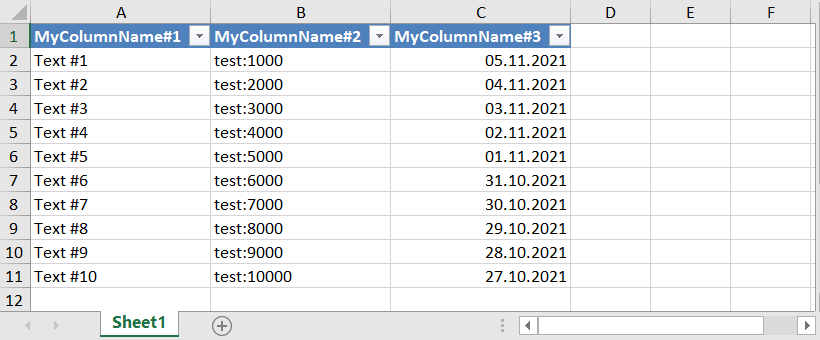
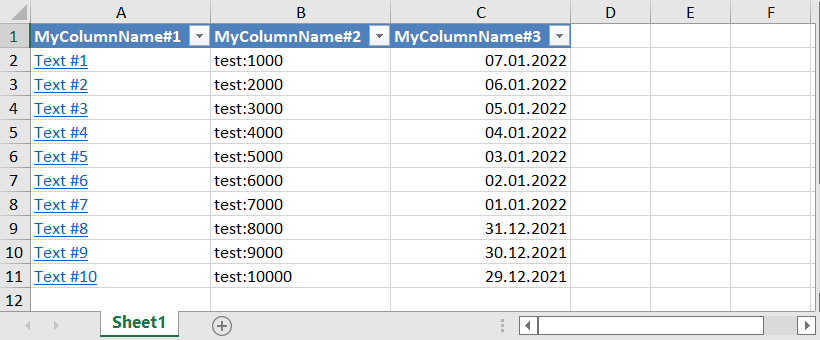
2.0.6

diff --git a/ArrayToExcel/ArrayToExcel.cs b/ArrayToExcel/ArrayToExcel.cs
@@ -95,9 +95,8 @@ namespace ArrayToExcel
             // fonts
             stylesPart.Stylesheet.Fonts = new Fonts();
             stylesPart.Stylesheet.Fonts.AppendChild(new Font());
-            var font1 = stylesPart.Stylesheet.Fonts.AppendChild(new Font());
-            font1.Append(new Bold());
-            font1.Append(new Color() { Rgb = HexBinaryValue.FromString("FFFFFFFF") });
+            stylesPart.Stylesheet.Fonts.AppendChild(new Font(new Bold(), new Color() { Rgb = HexBinaryValue.FromString("FFFFFFFF") }));
+            stylesPart.Stylesheet.Fonts.AppendChild(new Font(new Underline(), new Color() { Theme = 10U }));
             stylesPart.Stylesheet.Fonts.Count = (uint)stylesPart.Stylesheet.Fonts.ChildElements.Count;
 
             // fills
@@ -137,6 +136,8 @@ namespace ArrayToExcel
             stylesPart.Stylesheet.CellFormats.AppendChild(new CellFormat { FormatId = 0, FontId = 1, BorderId = 0, FillId = 2, ApplyFill = true }).AppendChild(new Alignment { Horizontal = HorizontalAlignmentValues.Left, Vertical = VerticalAlignmentValues.Center });
             // datetime style
             stylesPart.Stylesheet.CellFormats.AppendChild(new CellFormat { ApplyNumberFormat = true, NumberFormatId = 14, FormatId = 0, FontId = 0, BorderId = 0, FillId = 0, ApplyFill = true });
+            // hyperlink style
+            stylesPart.Stylesheet.CellFormats.AppendChild(new CellFormat { FormatId = 0, FontId = 2 });
             stylesPart.Stylesheet.CellFormats.Count = (uint)stylesPart.Stylesheet.CellFormats.ChildElements.Count;
 
             stylesPart.Stylesheet.Save();
@@ -170,13 +171,27 @@ namespace ArrayToExcel
         static Cell GetCell(string? reference, object? value)
         {
             var dataType = GetCellType(value);
-            return new Cell
+
+            var cell = new Cell
             {
                 CellReference = reference,
                 CellValue = GetCellValue(value),
                 DataType = dataType,
                 StyleIndex = dataType == CellValues.Date ? 2 : 0u,
             };
+
+            if (value is Hyperlink hyperlink)
+            {
+                cell.CellFormula = new CellFormula(hyperlink.ToString());
+                cell.StyleIndex = 3;
+            } 
+            else if (value is Uri uri)
+            {
+                cell.CellFormula = new CellFormula(new Hyperlink(uri).ToString());
+                cell.StyleIndex = 3;
+            }
+
+            return cell;
         }
 
         static CellValue GetCellValue(object? value)

diff --git a/ArrayToExcel/Hyperlink.cs b/ArrayToExcel/Hyperlink.cs
@@ -1,0 +1,36 @@
+using System;
+
+namespace ArrayToExcel
+{
+    public class Hyperlink
+    {
+        public Hyperlink(Uri link, string? text = null)
+            : this(link.ToString(), text ?? link.OriginalString) { }
+
+        public Hyperlink(string link, string? text = null)
+        {
+            _format = new Lazy<string>(() => Format(link, text));
+
+            Link = link;
+            Text = text;
+        }
+
+        private readonly Lazy<string> _format;
+
+        public string Link { get; }
+        public string? Text { get; }
+
+        public override string ToString() => _format.Value;
+
+
+        private static string Format(string link, string? text)
+        {
+            return string.Format(string.IsNullOrWhiteSpace(text) || text == link
+                ? "HYPERLINK(\"{0}\")"
+                : "HYPERLINK(\"{0}\",\"{1}\")",
+                Fix(link), Fix(text));
+        }
+        private static string? Fix(string? val) => val?.Replace("\"", "\"\"");
+
+    }
+}

diff --git a/Examples/Example.ConsoleApp/Program.cs b/Examples/Example.ConsoleApp/Program.cs
@@ -66,7 +66,7 @@ namespace ConsoleApp
         static void Example4()
         {
             var excel = SomeItems.ToExcel(schema => schema
-                .AddColumn("MyColumnName#1", x => x.Prop1)
+                .AddColumn("MyColumnName#1", x => new Hyperlink($"https://www.google.com/search?q={x.Prop1}", x.Prop1))
                 .AddColumn("MyColumnName#2", x => $"test:{x.Prop2}")
                 .AddColumn("MyColumnName#3", x => x.Prop3));
 
@@ -211,6 +211,8 @@ namespace ConsoleApp
                 DateTime = DateTime.Now.AddDays(-x),
                 DateTimeOffset = DateTimeOffset.Now.AddDays(-x),
                 String = $"text text text #{x} !!!",
+                Uri = new Uri($"https://www.google.com/search?q={x}"),
+                Hyperlink = new Hyperlink($"https://www.google.com/search?q={x}", $"link_{x}"),
             });
 
             using var excel = items.ToExcelStream();

diff --git a/README.md b/README.md
@@ -46,7 +46,7 @@ Result:
 ### Example 4: Custom column's mapping
 ```C#
 var excel = items.ToExcel(schema => schema
-    .AddColumn("MyColumnName#1", x => x.Prop1)
+    .AddColumn("MyColumnName#1", x => new Hyperlink($"https://www.google.com/search?q={x.Prop1}", x.Prop1))
     .AddColumn("MyColumnName#2", x => $"test:{x.Prop2}")
     .AddColumn("MyColumnName#3", x => x.Prop3));
 ```
